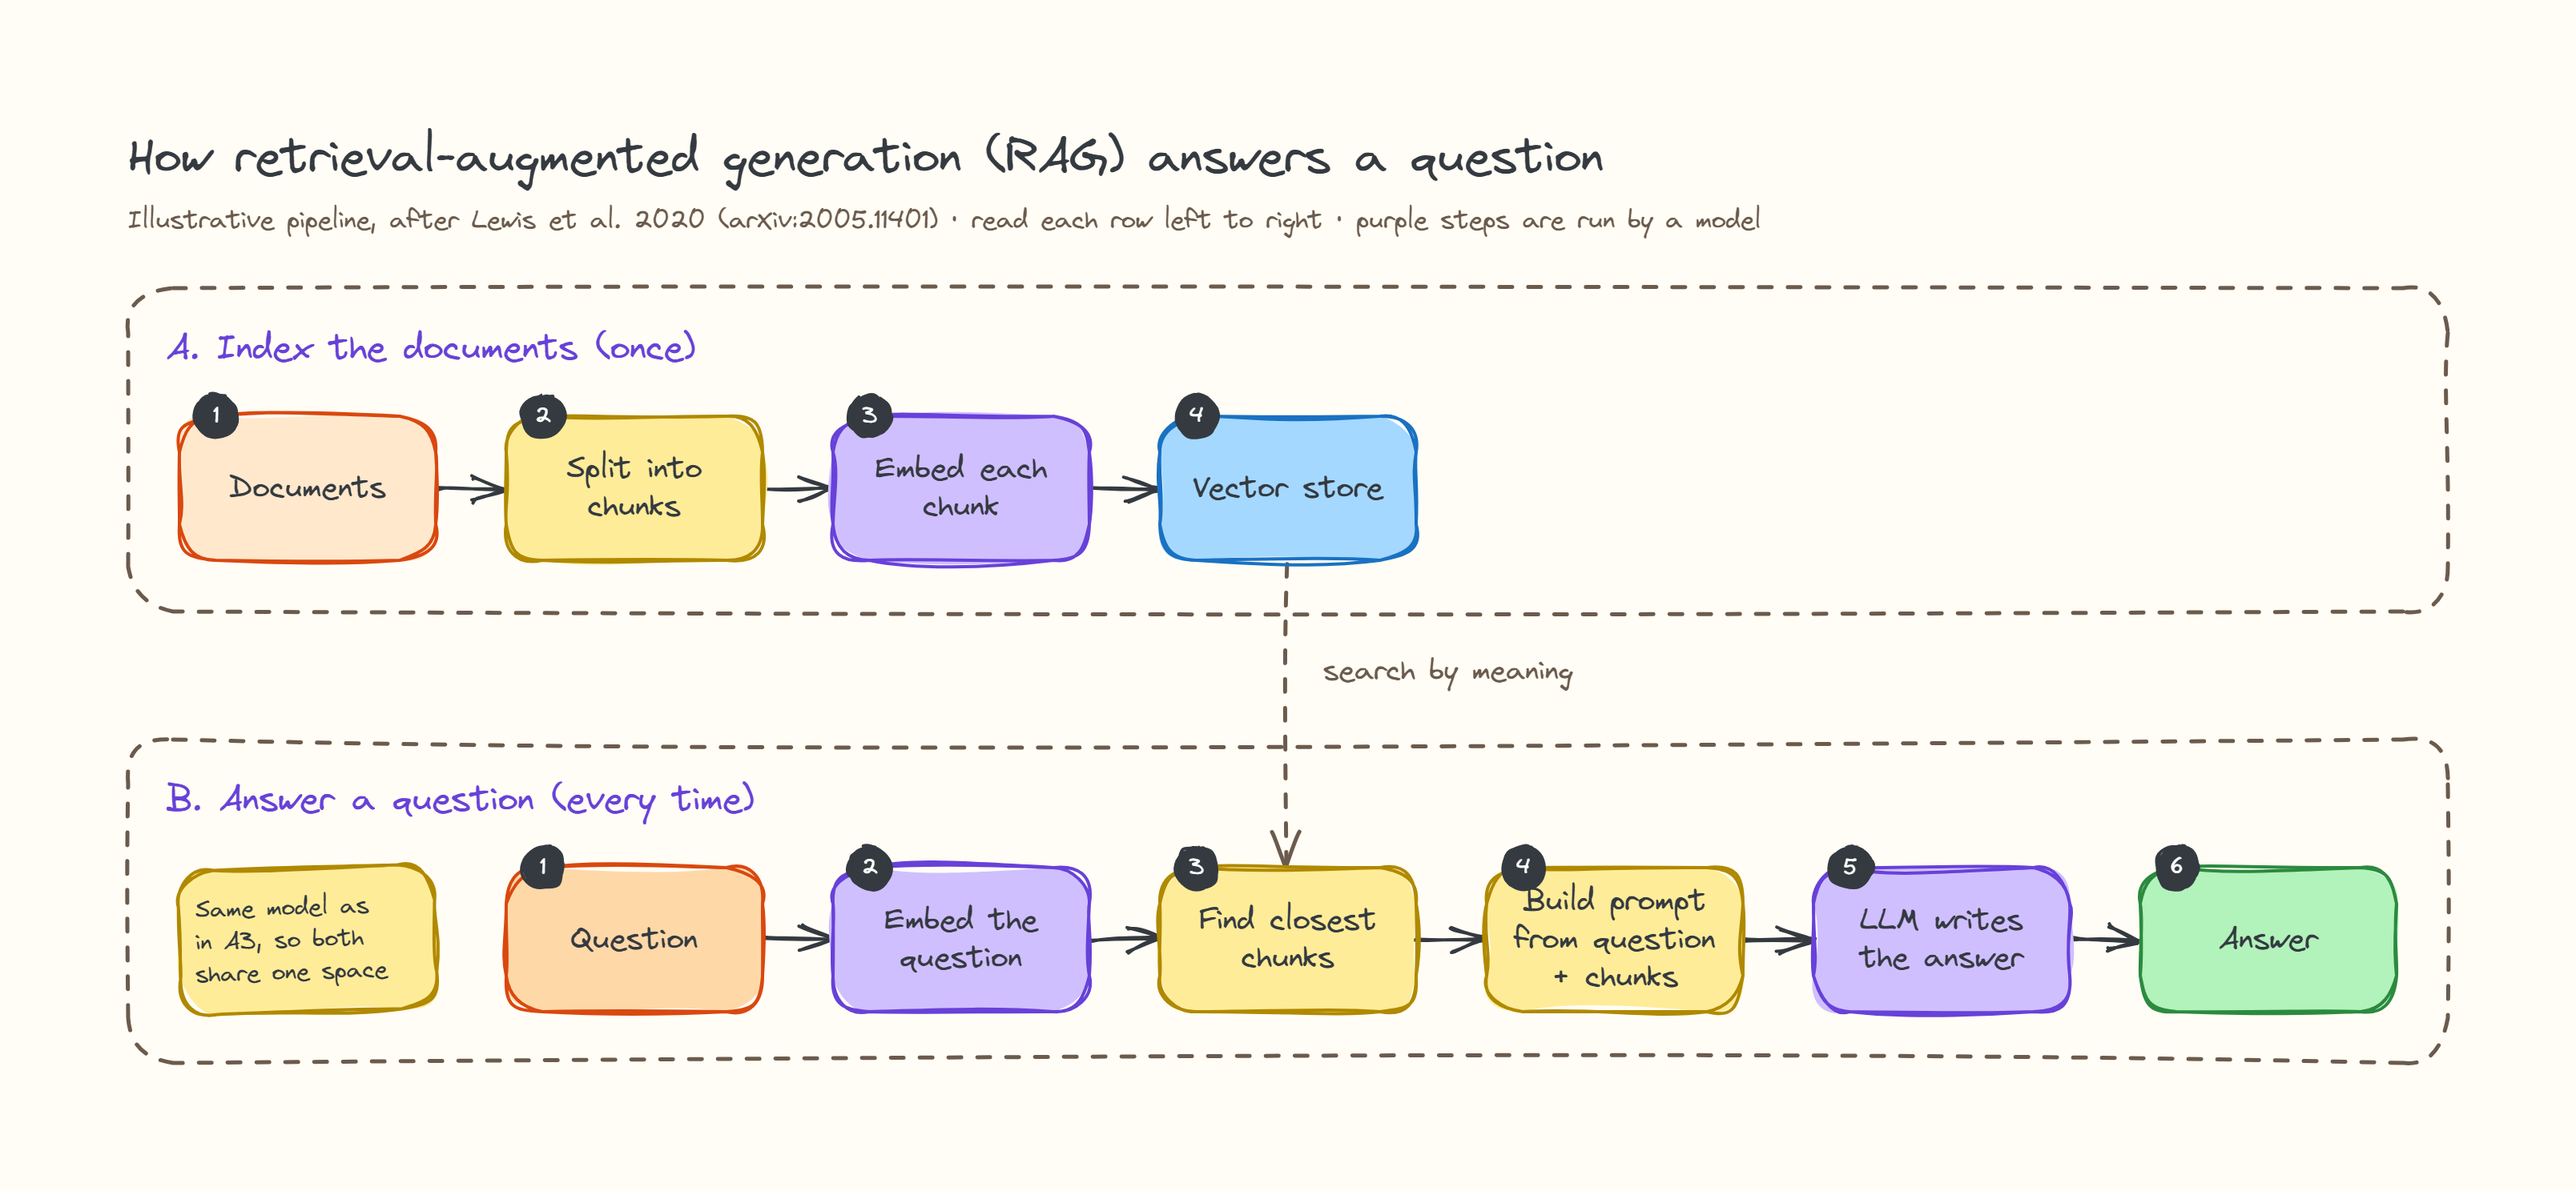
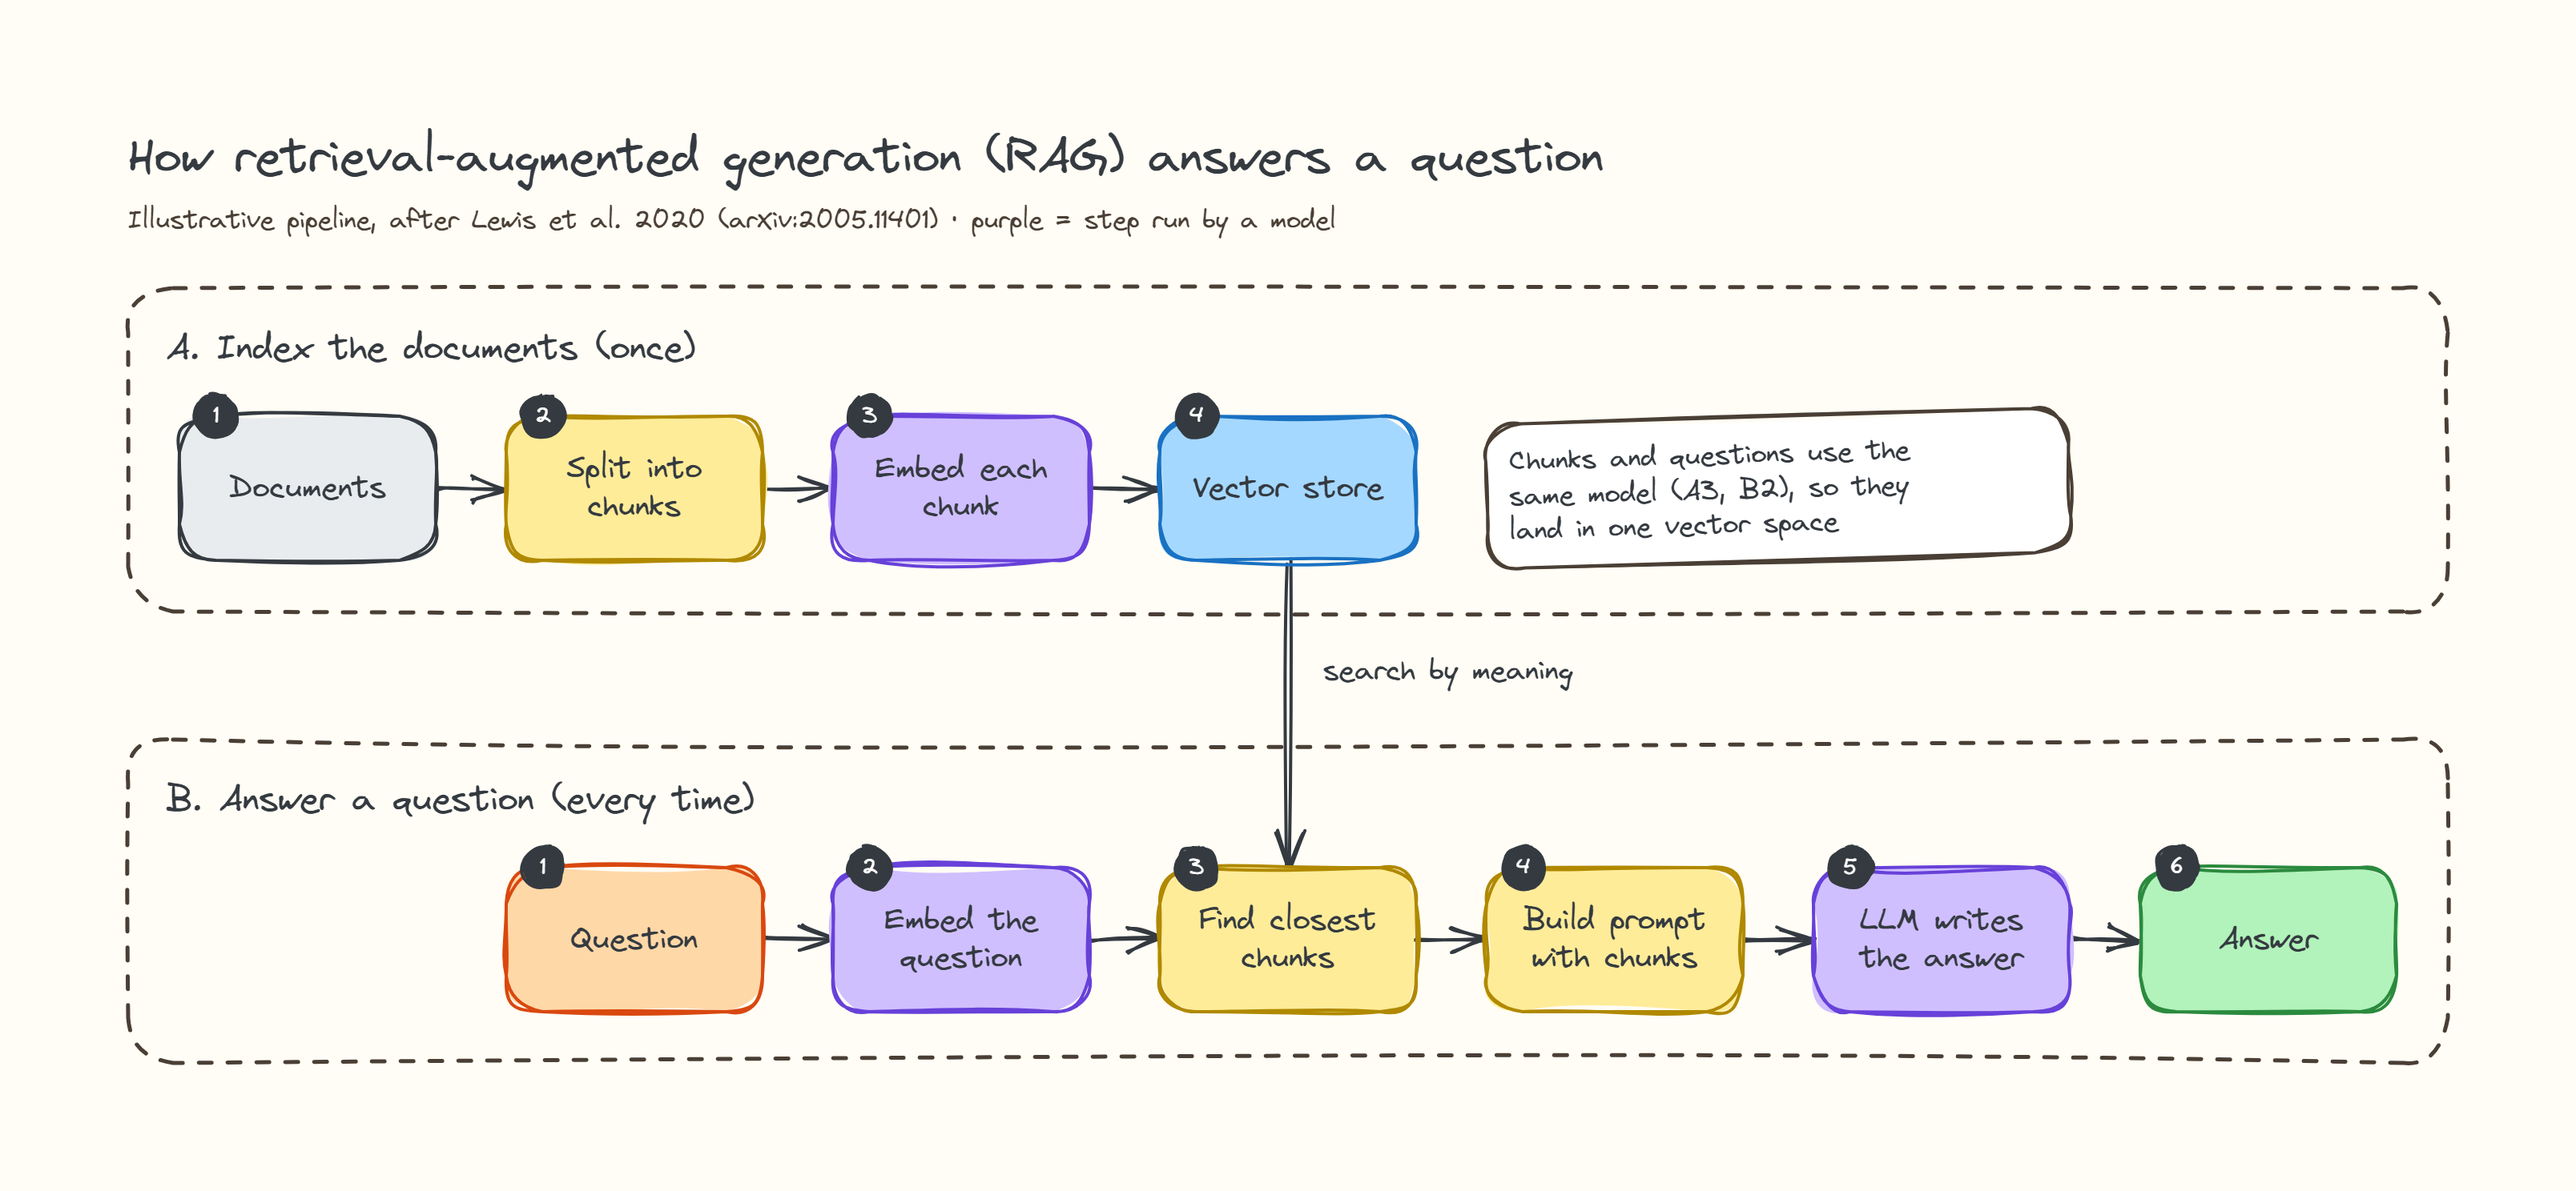
fix(examples): address UX review of the RAG diagram

diff --git a/skill/examples/concept-rag/DESIGN.md b/skill/examples/concept-rag/DESIGN.md
@@ -3,7 +3,7 @@ version: alpha
 name: Whiteboard
 colors:
   ink: "#343a40"
-  ink-soft: "#6b5b4d"
+  ink-soft: "#4a3f35"
   paper: "#fffdf5"
   peach: "#ffd8a8"
   peach-line: "#d9480f"
@@ -18,6 +18,7 @@ colors:
   rose: "#ffc9c9"
   rose-line: "#c92a2a"
   sand: "#ffe8cc"
+  stone: "#e9ecef"
   white: "#ffffff"
 components:
   primary:
@@ -29,8 +30,8 @@ components:
     strokeColor: "{colors.butter-line}"
     textColor: "{colors.ink}"
   tertiary:
-    backgroundColor: "{colors.sand}"
-    strokeColor: "{colors.peach-line}"
+    backgroundColor: "{colors.stone}"
+    strokeColor: "{colors.ink}"
     textColor: "{colors.ink}"
   start:
     backgroundColor: "{colors.peach}"
@@ -69,7 +70,7 @@ components:
   title:
     textColor: "{colors.ink}"
   subtitle:
-    textColor: "{colors.lavender-line}"
+    textColor: "{colors.ink}"
   body:
     textColor: "{colors.ink-soft}"
   text-on-light:
@@ -135,8 +136,8 @@ components:
     strokeStyle: dashed
     textColor: "{colors.ink-soft}"
   note:
-    backgroundColor: "{colors.butter}"
-    strokeColor: "{colors.butter-line}"
+    backgroundColor: "{colors.white}"
+    strokeColor: "{colors.ink-soft}"
     textColor: "{colors.ink}"
   step:
     backgroundColor: "{colors.ink}"
